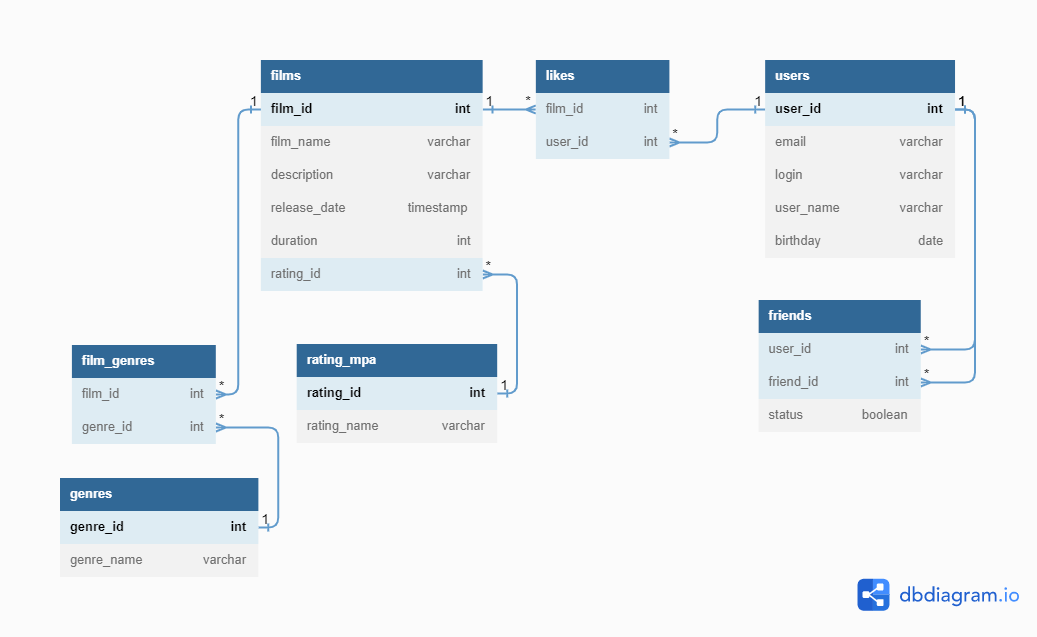
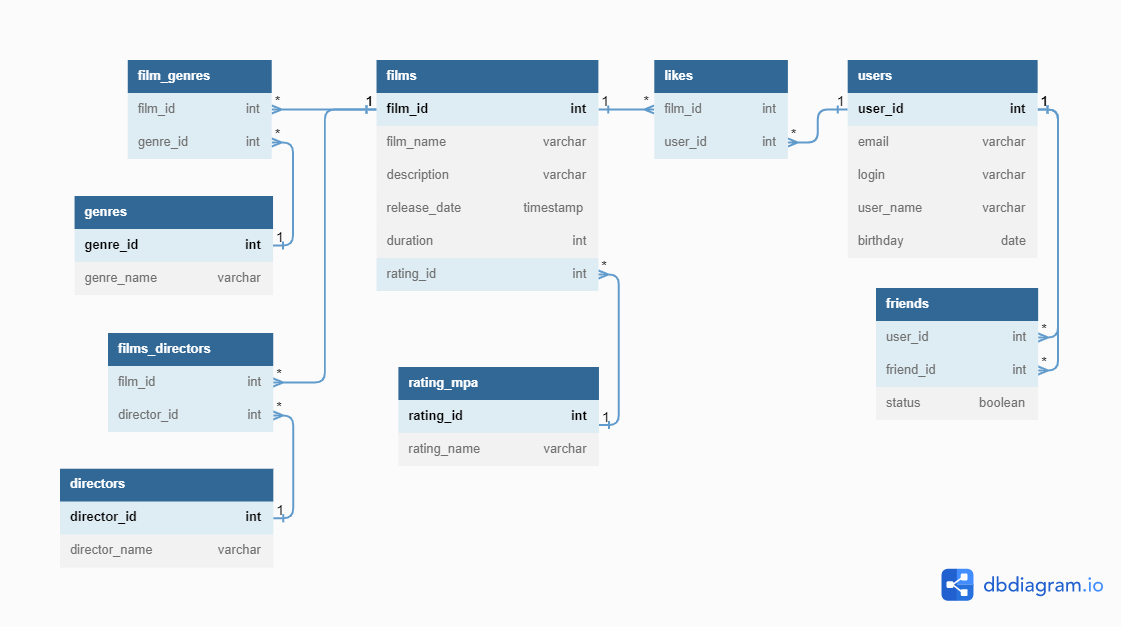
Коммит №12.1: refactor: -Переработан метод delete в классах FilmDbStorage и FilmService; -Переработан метод delete в классе UserDbStorage и UserService; -Испаравлена ER-диаграмма.
-fix:
-Исправлена ошибка в методе DeleteById в классе FilmController;
-Исправлена ошибка в методе DeleteById в классе UserController.

Style:
-Косметические изменения по всему проекту.

diff --git a/src/main/java/ru/yandex/practicum/filmorate/storage/db/FilmDbStorage.java b/src/main/java/ru/yandex/practicum/filmorate/storage/db/FilmDbStorage.java
@@ -20,8 +20,17 @@ import java.sql.PreparedStatement;
 import java.sql.ResultSet;
 import java.sql.SQLException;
 import java.time.LocalDate;
-import java.util.*;
-import java.util.stream.Collectors;
+import java.util.ArrayList;
+import java.util.Collection;
+import java.util.Collections;
+import java.util.Comparator;
+import java.util.HashSet;
+import java.util.LinkedList;
+import java.util.List;
+import java.util.Map;
+import java.util.Objects;
+import java.util.Set;
+import java.util.TreeSet;
 
 @Slf4j
 @Repository
@@ -80,7 +89,6 @@ public class FilmDbStorage implements FilmStorage {
         Film buffFilm = getById(film.getId());
         int filmId;
         try {
-
             String sqlQuery = "UPDATE films "
                     + "SET film_name = ?, "
                     + "description = ?, "
@@ -104,9 +112,10 @@ public class FilmDbStorage implements FilmStorage {
     }
 
     @Override
-    public String delete(int filmId) {
-        String sqlQuery = "DELETE FROM films WHERE film_id = ?";
-        return sqlQuery;
+    public Film delete(Integer filmId) {
+        Film film = getById(filmId);
+        jdbcTemplate.execute("DELETE FROM films WHERE film_id = " + filmId);
+        return film;
     }
 
     @Override
@@ -135,7 +144,6 @@ public class FilmDbStorage implements FilmStorage {
                 ps.setInt(1, filmId);
                 ps.setInt(2, genresTable.get(i).getId());
             }
-
             public int getBatchSize() {
                 return genresTable.size();
             }
@@ -195,15 +203,12 @@ public class FilmDbStorage implements FilmStorage {
     }
 
     private Set<Director> getDirectors(int filmId) {
-        Set<Director> directors = new TreeSet<>((d1, d2) -> {
-            return d1.getId() - d2.getId();
-        });
+        Set<Director> directors = new TreeSet<>(Comparator.comparingInt(Director::getId));
         String sqlQuery = "SELECT films_directors.director_id, directors.director_name FROM films_directors "
                 + "JOIN directors ON directors.director_id = films_directors.director_id "
                 + "WHERE film_id = ? ORDER BY director_id ASC";
         directors.addAll(jdbcTemplate.query(sqlQuery, this::makeDirector, filmId));
         return directors;
-
     }
 
     private void deleteAllDirectorsByFilmId(int filmId) {
@@ -232,26 +237,12 @@ public class FilmDbStorage implements FilmStorage {
         String sqlQuery = "SELECT * FROM films "
                 + "LEFT JOIN likes ON likes.film_id = films.film_id "
                 + "JOIN rating_mpa ON films.rating_id = rating_mpa.rating_id "
-                + "GROUP BY films.film_id "
+                + "GROUP BY films.film_id, "
+                + "likes.user_id "
                 + "ORDER BY COUNT (likes.film_id) DESC "
                 + "LIMIT "
                 + count;
         return jdbcTemplate.query(sqlQuery, this::makeFilm);
-    }
-
-    private List<Film> addGenreForList(List<Film> films) {
-        Map<Integer, Film> filmsTable = films.stream().collect(Collectors.toMap(Film::getId, film -> film));
-        String inSql = String.join(", ", Collections.nCopies(filmsTable.size(), "?"));
-        final String sqlQuery = "SELECT * "
-                + "FROM film_genres "
-                + "LEFT OUTER JOIN genres ON film_genres.genre_id = genres.genre_id "
-                + "WHERE film_genres.film_id IN (" + inSql + ") "
-                + "ORDER BY film_genres.genre_id";
-        jdbcTemplate.query(sqlQuery, (rs) -> {
-            filmsTable.get(rs.getInt("film_id")).addGenre(new Genre(rs.getInt("genre_id"),
-                    rs.getString("genre_name")));
-        }, filmsTable.keySet().toArray());
-        return films;
     }
 
     private Genre makeGenre(ResultSet rs, int id) throws SQLException {

diff --git a/src/main/java/ru/yandex/practicum/filmorate/controller/DirectorController.java b/src/main/java/ru/yandex/practicum/filmorate/controller/DirectorController.java
@@ -6,6 +6,7 @@ import org.springframework.beans.factory.annotation.Autowired;
 import org.springframework.web.bind.annotation.GetMapping;
 import org.springframework.web.bind.annotation.PostMapping;
 import org.springframework.web.bind.annotation.RequestBody;
+import org.springframework.web.bind.annotation.RequestMapping;
 import org.springframework.web.bind.annotation.RestController;
 import org.springframework.web.bind.annotation.PathVariable;
 import org.springframework.web.bind.annotation.PutMapping;
@@ -18,8 +19,8 @@ import java.util.List;
 
 @RestController
 @Slf4j
+@RequestMapping("/directors")
 public class DirectorController {
-
     public final DirectorService directorService;
 
     @Autowired
@@ -27,41 +28,39 @@ public class DirectorController {
         this.directorService = directorService;
     }
 
-    @PostMapping("/directors")
+    @PostMapping
     public Director addDirector(@Valid @RequestBody Director director) {
         log.info("Add director request {}", director);
         return directorService.addDirector(director);
     }
 
-    @GetMapping("/directors")
+    @GetMapping
     public List<Director> getAllDirectors() {
         log.info("All directors list request");
         return directorService.getAllDirectors();
     }
 
-    @GetMapping("/directors/{id}")
+    @GetMapping("/{id}")
     public Director getDirectorById(@PathVariable int id) {
         log.info("Director requested, id {}", id);
         return directorService.getDirectorById(id);
     }
 
-    @PutMapping("/directors")
+    @PutMapping
     public Director updateDirector(@Valid @RequestBody Director director) {
         log.info("Update director request {}", director.getId());
         return directorService.updateDirector(director);
     }
 
-    @DeleteMapping("/directors")
+    @DeleteMapping
     public void deleteAllDirectors() {
         log.info("Delete all directors request");
         directorService.deleteAllDirectors();
     }
 
-    @DeleteMapping("/directors/{id}")
+    @DeleteMapping("/{id}")
     public Director deleteDirectorById(@PathVariable int id) {
         log.info("Delete director request {}", id);
         return directorService.deleteDirectorById(id);
     }
-
-
 }

diff --git a/src/main/java/ru/yandex/practicum/filmorate/storage/db/DirectorDbStorage.java b/src/main/java/ru/yandex/practicum/filmorate/storage/db/DirectorDbStorage.java
@@ -18,7 +18,6 @@ import java.util.List;
 @Component
 @Slf4j
 public class DirectorDbStorage implements DirecorStorage {
-
     private final JdbcTemplate jdbcTemplate;
 
     public DirectorDbStorage(JdbcTemplate jdbcTemplate) {
@@ -43,7 +42,6 @@ public class DirectorDbStorage implements DirecorStorage {
 
     @Override
     public Director addDirector(Director director) {
-
         if (isPresentInDB(director)) {
             throw new ObjectAlreadyExistsException("Unable to add director: director already exists");
         }
@@ -99,7 +97,6 @@ public class DirectorDbStorage implements DirecorStorage {
         Director updatedDirector = getDirectorById(director.getId());
         log.info("Director is updated {}", updatedDirector);
         return updatedDirector;
-
     }
 
     @Override
@@ -119,7 +116,6 @@ public class DirectorDbStorage implements DirecorStorage {
         }
         log.info("Director is deleted {}", removedDirector);
         return removedDirector;
-
     }
 
     @Override
@@ -131,7 +127,6 @@ public class DirectorDbStorage implements DirecorStorage {
         }
         jdbcTemplate.execute(requestResetPK);
         log.info("Directors table is dropped");
-
     }
 
     private Director buildDirectorFromRow(SqlRowSet row) {

diff --git a/src/main/java/ru/yandex/practicum/filmorate/service/UserService.java b/src/main/java/ru/yandex/practicum/filmorate/service/UserService.java
@@ -45,12 +45,19 @@ public class UserService {
         return result;
     }
 
-    public void delete(int userId) {
-        if (getById(userId) == null) {
-            throw new NotFoundException("User with ID = " + userId + " not found");
+    public User delete(Integer userId) {
+        log.info("Request to delete the user by ID = " + userId + " received");
+        if (userId == null) {
+            throw new NotFoundException("Movie with ID = " + userId + " not found");
         }
-        log.info("Deleted film with id: {}", userId);
-        storage.delete(userId);
+        if (userId < 0) {
+            throw new NotFoundException("Movie with ID = " + userId + " not found");
+        }
+        if (getById(userId) == null) {
+            throw new NotFoundException("Movie with ID = " + userId + " not found");
+        }
+        log.info("Deleted user with id: {}", userId);
+        return storage.delete(userId);
     }
 
     public User getById(Integer id) {

diff --git a/src/main/java/ru/yandex/practicum/filmorate/service/FilmService.java b/src/main/java/ru/yandex/practicum/filmorate/service/FilmService.java
@@ -52,12 +52,19 @@ public class FilmService {
         return result;
     }
 
-    public void delete(int filmId) {
+    public Film delete(Integer filmId) {
+        log.info("Request to delete the movie by ID = " + filmId + " received");
+        if (filmId == null) {
+            throw new NotFoundException("Movie with ID = " + filmId + " not found");
+        }
+        if (filmId < 0) {
+            throw new NotFoundException("Movie with ID = " + filmId + " not found");
+        }
         if (getById(filmId) == null) {
             throw new NotFoundException("Movie with ID = " + filmId + " not found");
         }
         log.info("Deleted film with id: {}", filmId);
-        filmStorage.delete(filmId);
+        return filmStorage.delete(filmId);
     }
 
     public Film getById(Integer id) {

diff --git a/src/main/java/ru/yandex/practicum/filmorate/storage/interfaces/DirecorStorage.java b/src/main/java/ru/yandex/practicum/filmorate/storage/interfaces/DirecorStorage.java
@@ -5,18 +5,15 @@ import ru.yandex.practicum.filmorate.model.Director;
 import java.util.List;
 
 public interface DirecorStorage {
+    Director addDirector(Director director);
 
-    public Director addDirector(Director director);
+    List<Director> getAllDirectors();
 
-    public List<Director> getAllDirectors();
+    Director getDirectorById(Integer id);
 
-    public Director getDirectorById(Integer id);
+    Director updateDirector(Director director);
 
-    public Director updateDirector(Director director);
+    Director deleteDirectorById(Integer id);
 
-    public Director deleteDirectorById(Integer id);
-
-    public void deleteAllDirectors();
-
-
+    void deleteAllDirectors();
 }

diff --git a/src/main/java/ru/yandex/practicum/filmorate/model/Director.java b/src/main/java/ru/yandex/practicum/filmorate/model/Director.java
@@ -1,6 +1,10 @@
 package ru.yandex.practicum.filmorate.model;
 
-import lombok.*;
+import lombok.AllArgsConstructor;
+import lombok.Builder;
+import lombok.Getter;
+import lombok.Setter;
+import lombok.ToString;
 
 import javax.validation.constraints.NotBlank;
 
@@ -10,9 +14,8 @@ import javax.validation.constraints.NotBlank;
 @Builder
 @ToString
 public class Director {
-
     private int id;
+
     @NotBlank(message = "Director`s name can not be blank")
     private String name;
-
 }

diff --git a/src/main/java/ru/yandex/practicum/filmorate/storage/db/UserDbStorage.java b/src/main/java/ru/yandex/practicum/filmorate/storage/db/UserDbStorage.java
@@ -65,9 +65,10 @@ public class UserDbStorage implements UserStorage {
     }
 
     @Override
-    public String delete(int userId) {
-        String sqlQuery = "DELETE FROM users WHERE user_id = " + userId;
-        return sqlQuery;
+    public User delete(Integer userId) {
+        User user = getById(userId);
+        jdbcTemplate.execute("DELETE FROM users WHERE user_id = " + userId);
+        return user;
     }
 
     @Override

diff --git a/src/main/java/ru/yandex/practicum/filmorate/storage/interfaces/FilmStorage.java b/src/main/java/ru/yandex/practicum/filmorate/storage/interfaces/FilmStorage.java
@@ -8,19 +8,17 @@ import java.util.List;
 import java.util.Set;
 
 public interface FilmStorage extends LikesStorage {
-
     Collection<Film> getAll();
 
     Film create(Film film);
 
     Film update(Film film);
 
-    String delete(int id);
+    Film delete(Integer id);
 
     Film getById(Integer id);
 
     void addGenre(int filmId, Set<Genre> genres);
 
     List<Film> getDirectorsFilms(int directorId, String sortBy);
-
 }

diff --git a/src/main/java/ru/yandex/practicum/filmorate/exception/ObjectAlreadyExistsException.java b/src/main/java/ru/yandex/practicum/filmorate/exception/ObjectAlreadyExistsException.java
@@ -1,7 +1,6 @@
 package ru.yandex.practicum.filmorate.exception;
 
 public class ObjectAlreadyExistsException extends RuntimeException {
-
     public ObjectAlreadyExistsException() {
     }
 
@@ -16,5 +15,4 @@ public class ObjectAlreadyExistsException extends RuntimeException {
     public ObjectAlreadyExistsException(String message, Throwable cause) {
         super(message, cause);
     }
-
 }

diff --git a/src/main/java/ru/yandex/practicum/filmorate/controller/FilmController.java b/src/main/java/ru/yandex/practicum/filmorate/controller/FilmController.java
@@ -50,8 +50,8 @@ public class FilmController {
         return filmService.update(film);
     }
 
-    @DeleteMapping("/{id}")
-    public void deleteById(@PathVariable int filmId) {
+    @DeleteMapping("/{filmId}")
+    public void deleteById(@PathVariable Integer filmId) {
         filmService.delete(filmId);
     }
 

diff --git a/src/main/java/ru/yandex/practicum/filmorate/service/DirectorService.java b/src/main/java/ru/yandex/practicum/filmorate/service/DirectorService.java
@@ -11,7 +11,6 @@ import java.util.List;
 @Service
 @Slf4j
 public class DirectorService {
-
     private final DirecorStorage direcorStorage;
 
     @Autowired
@@ -42,6 +41,4 @@ public class DirectorService {
     public List<Director> getAllDirectors() {
         return direcorStorage.getAllDirectors();
     }
-
-
 }
